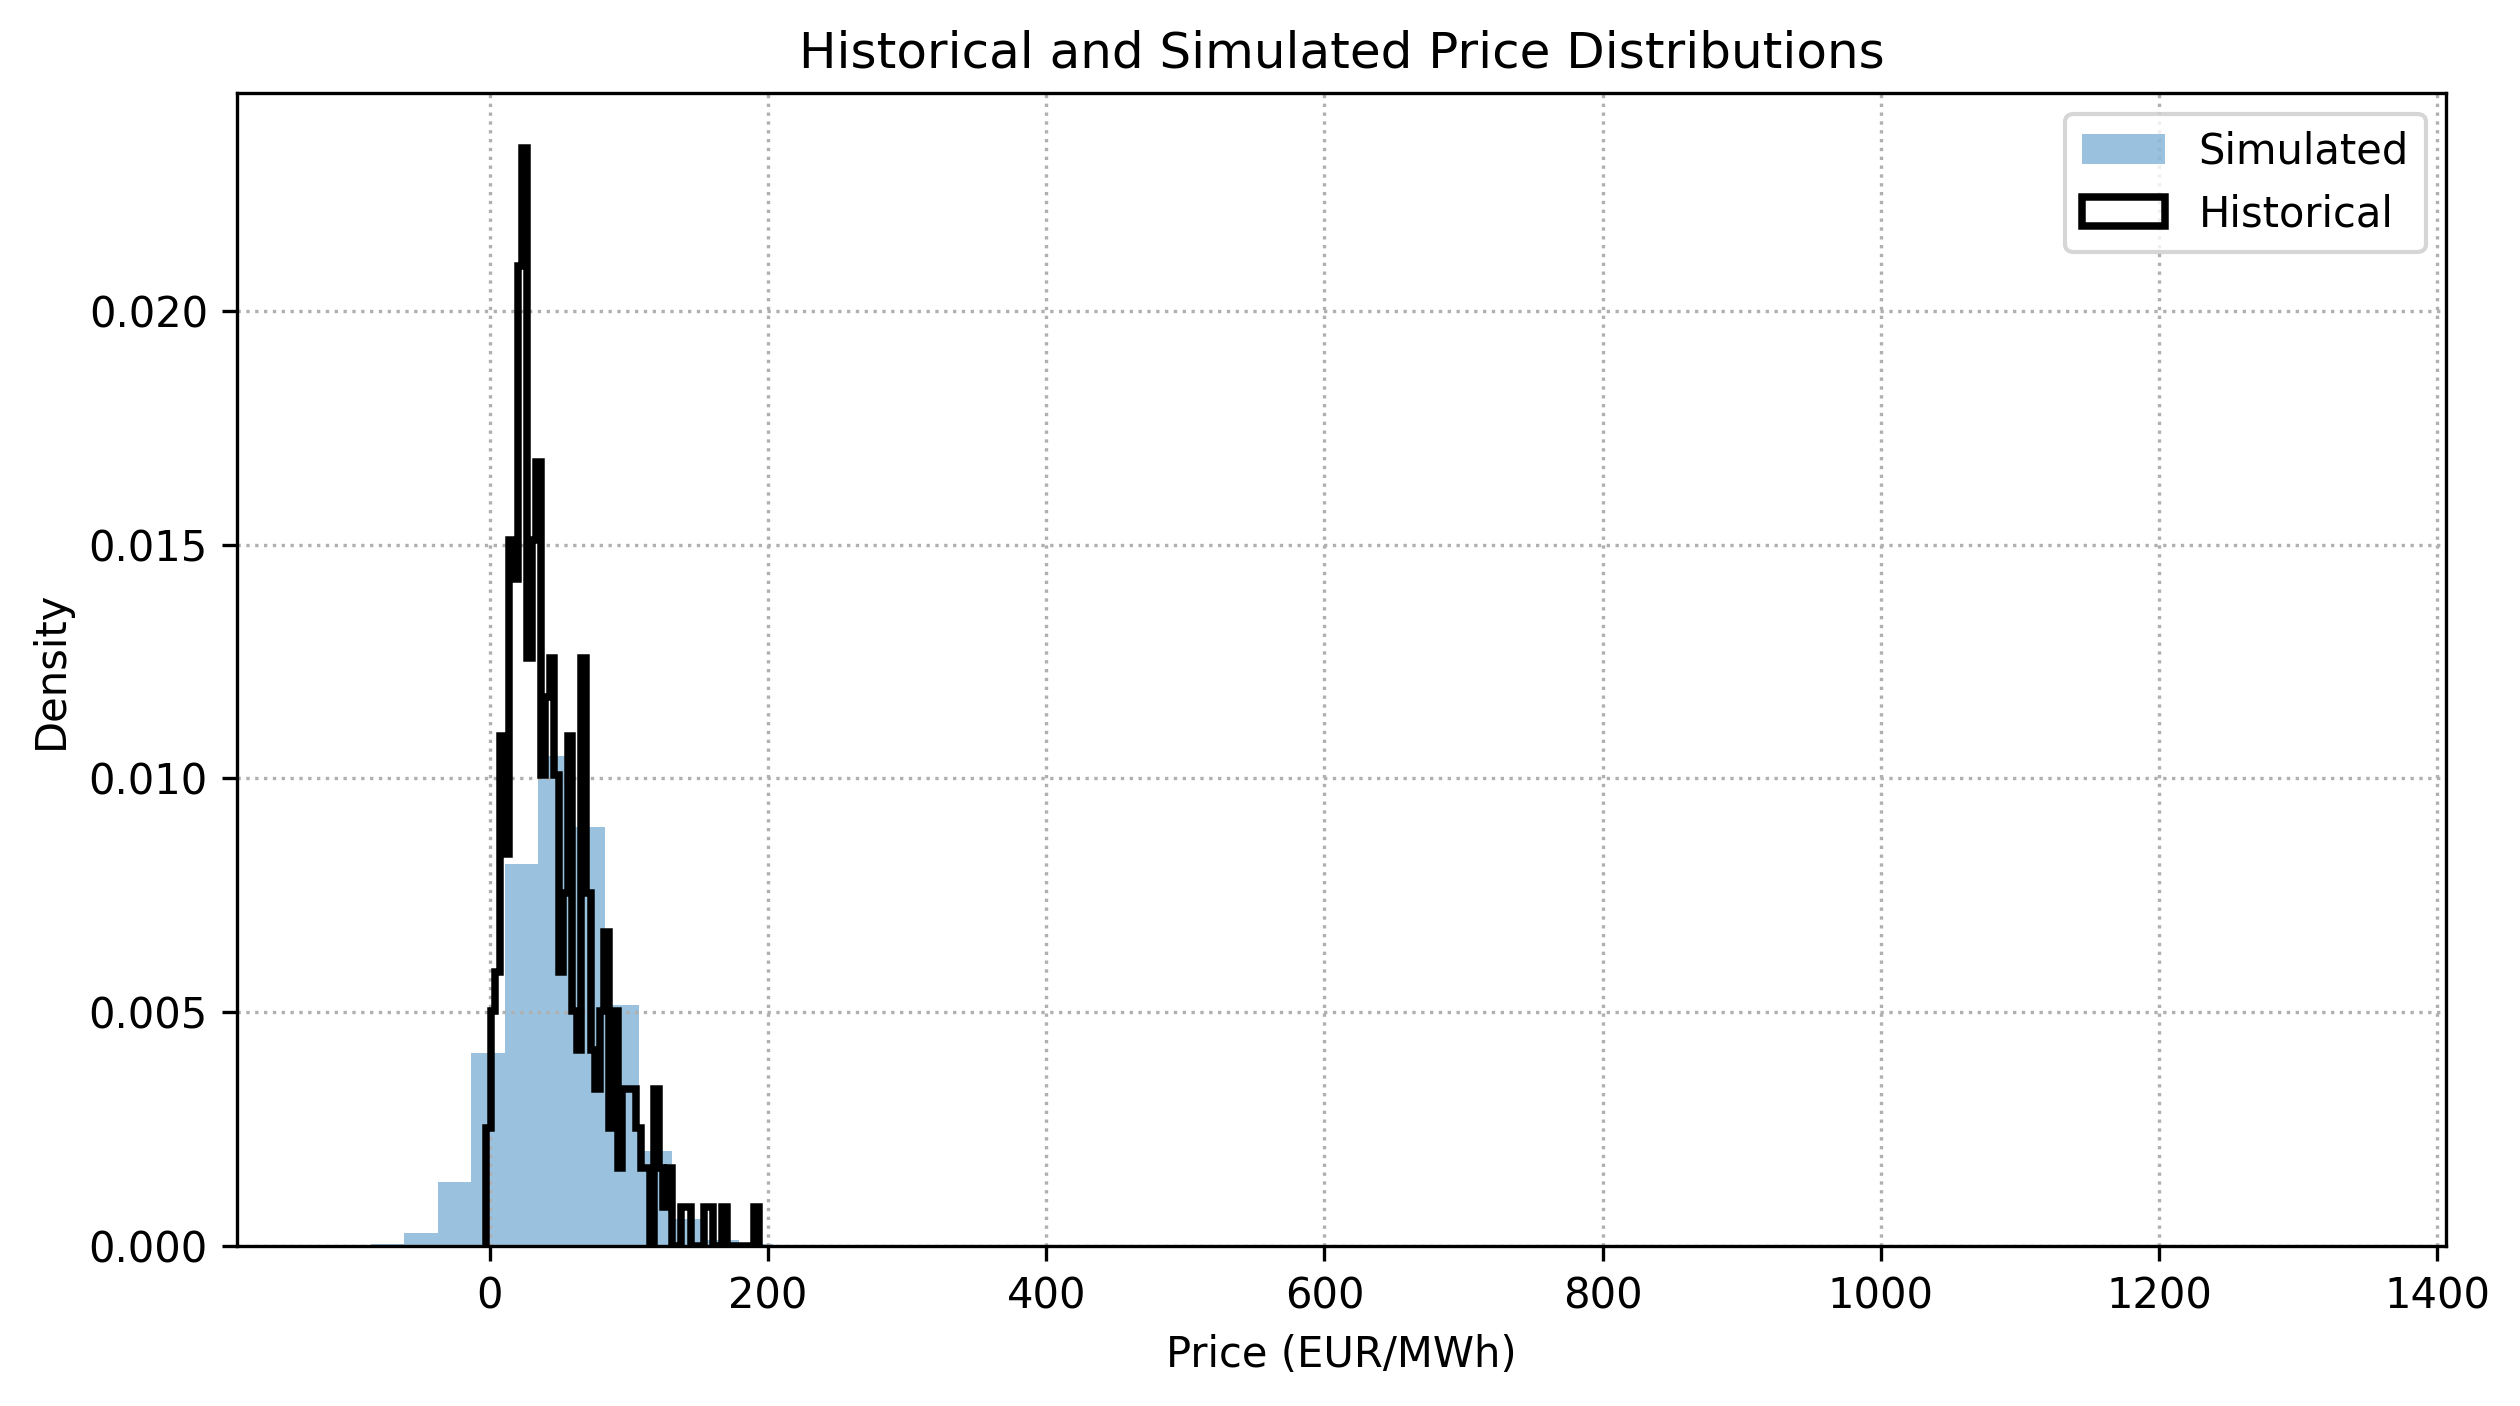
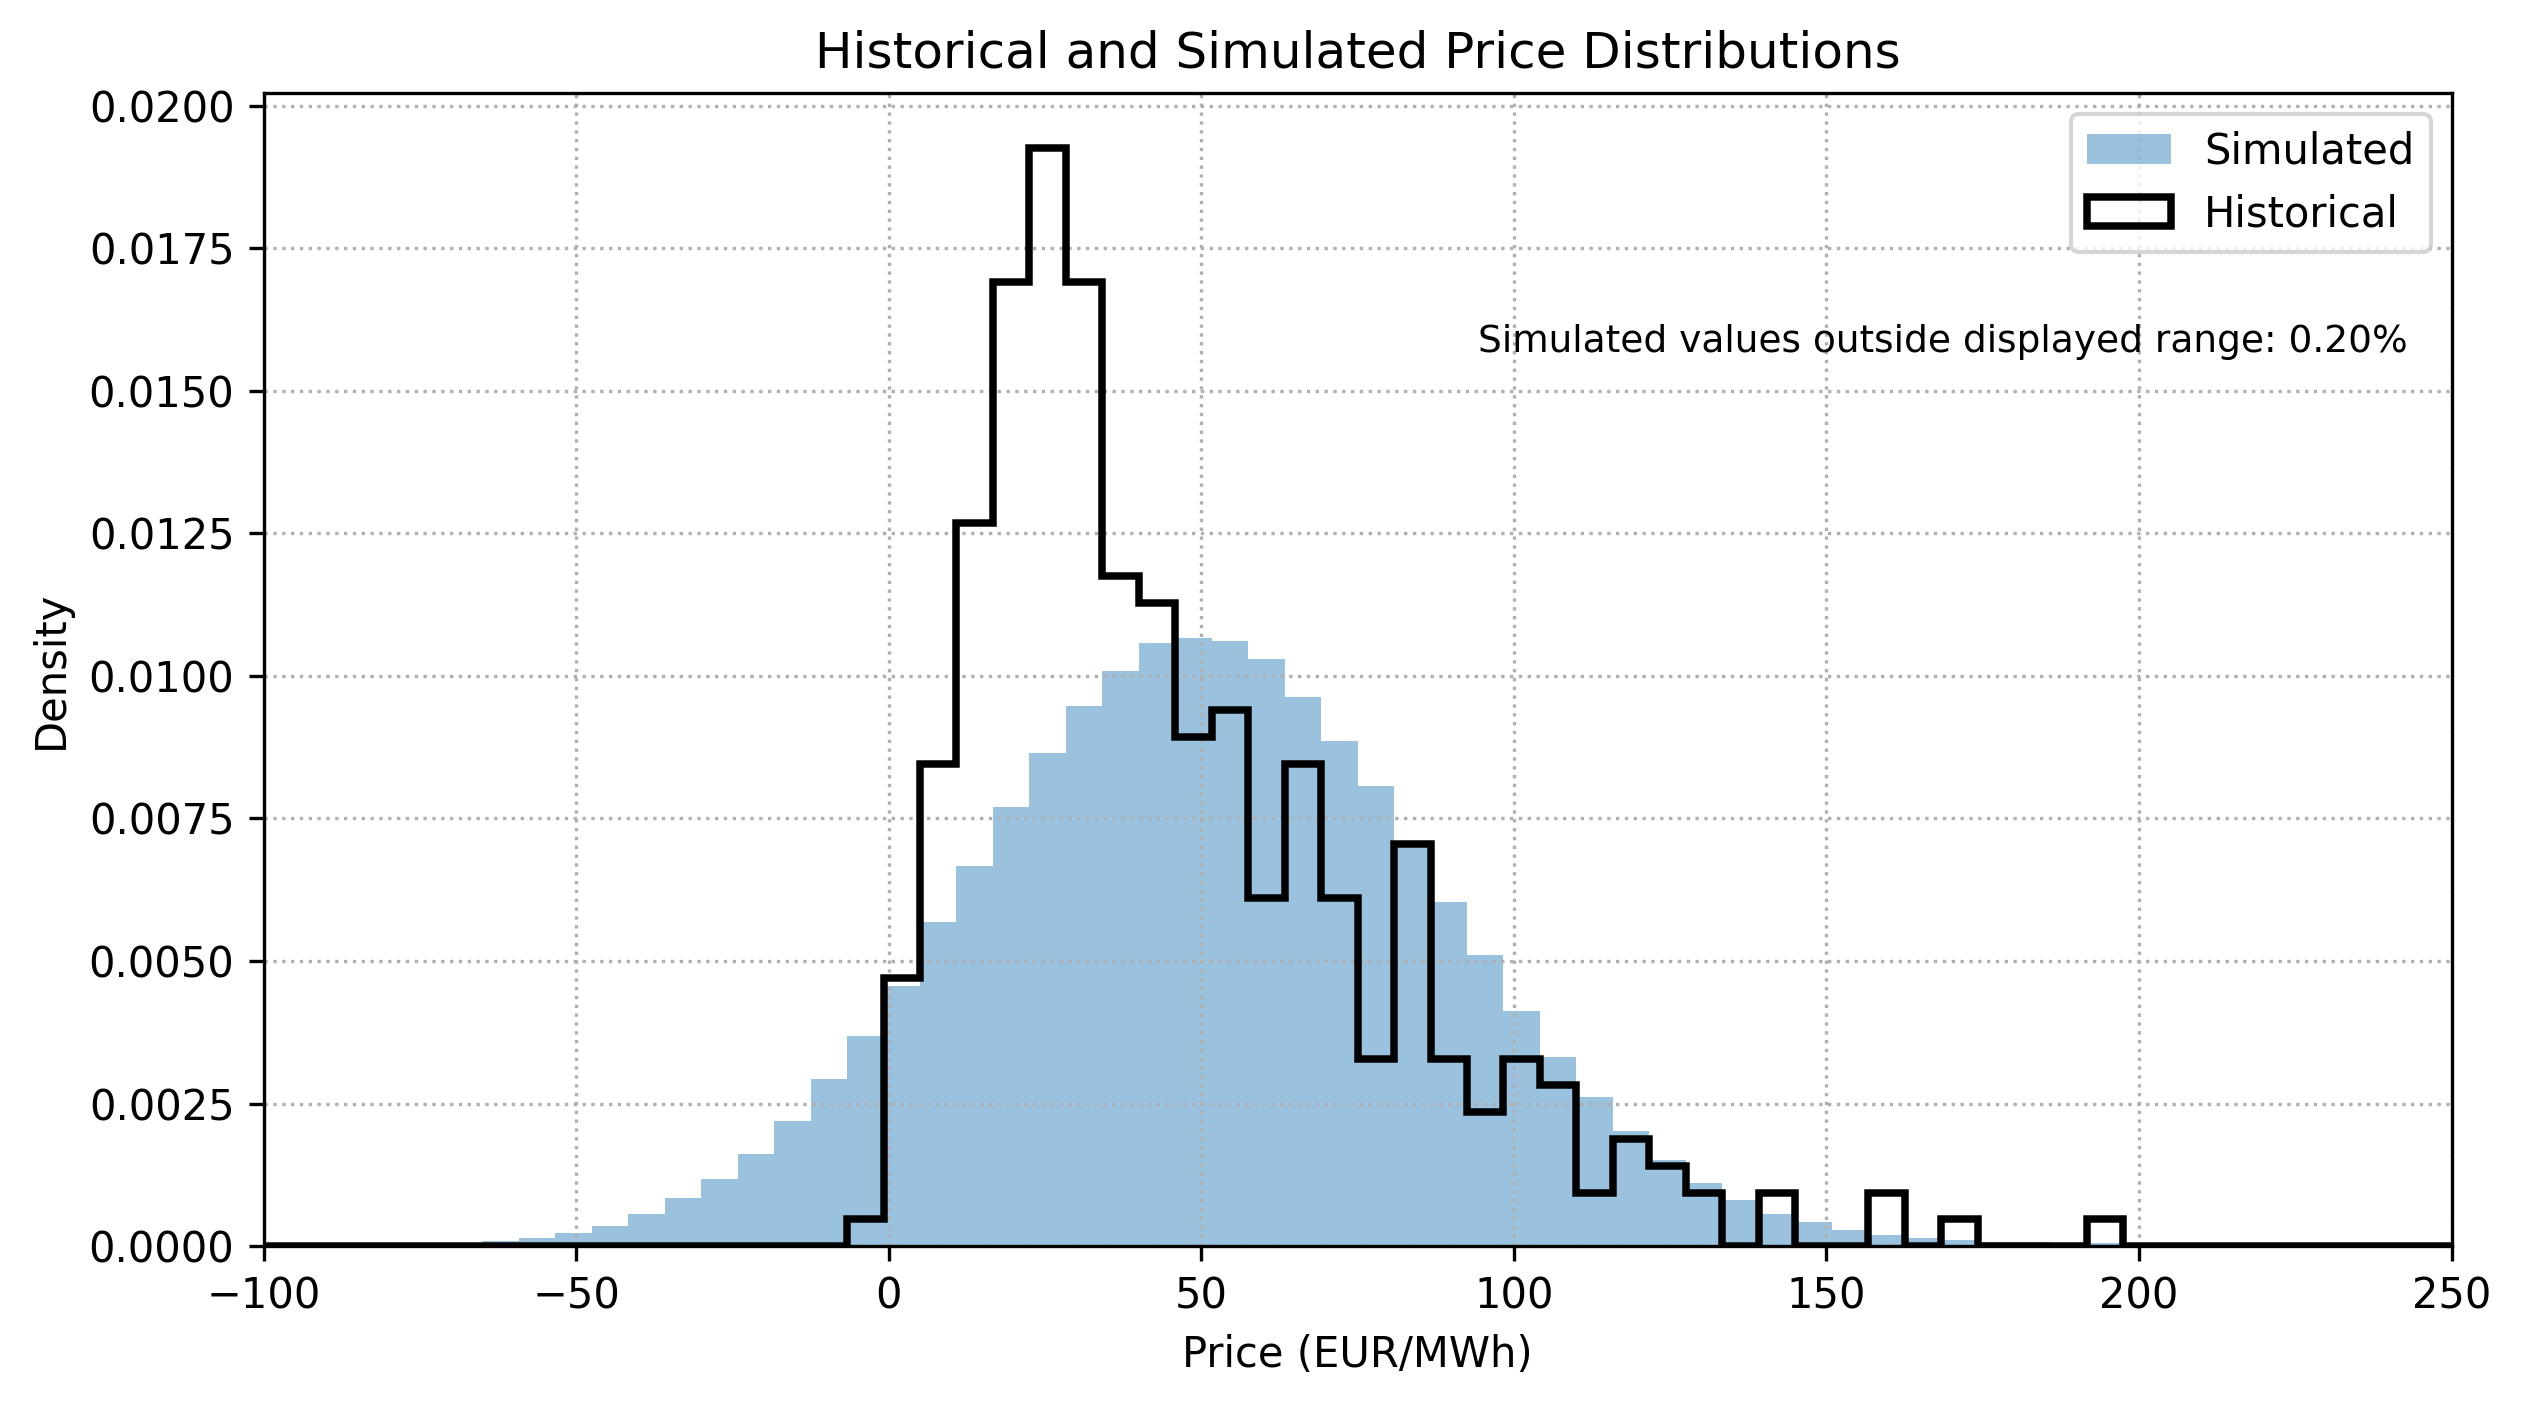
fixed histogram bins for distribution comparison plot

diff --git a/src/plotting.py b/src/plotting.py
@@ -319,10 +319,12 @@ def plot_historical_vs_simulated_distribution(
         historical_values,
         S_paths,
         bins=60,
+        plot_range=(-100, 250),
         save_path=None,
         show=True,
 ):
     """Compare historical and pooled simulated price distributions."""
+
     historical = np.asarray(historical_values, dtype=float)
     historical = historical[np.isfinite(historical)]
 
@@ -330,19 +332,27 @@ def plot_historical_vs_simulated_distribution(
     simulated = np.asarray(S_paths, dtype=float)[:, 1:].ravel()
     simulated = simulated[np.isfinite(simulated)]
 
+    lower, upper = plot_range
+    bin_edges = np.linspace(lower, upper, bins + 1)
+
+    simulated_outside = np.mean(
+        (simulated < lower) | (simulated > upper)
+    )
+
     fig, ax = plt.subplots(figsize=(8.5, 4.8))
 
     ax.hist(
         simulated,
-        bins=bins,
+        bins=bin_edges,
         density=True,
         alpha=0.45,
+        color="tab:blue",
         label="Simulated",
     )
 
     ax.hist(
         historical,
-        bins=bins,
+        bins=bin_edges,
         density=True,
         histtype="step",
         linewidth=1.8,
@@ -350,11 +360,26 @@ def plot_historical_vs_simulated_distribution(
         label="Historical",
     )
 
+    ax.set_xlim(lower, upper)
     ax.set_xlabel("Price (EUR/MWh)")
     ax.set_ylabel("Density")
     ax.set_title("Historical and Simulated Price Distributions")
     ax.grid(True, linestyle=":", linewidth=0.8)
     ax.legend()
+
+    ax.text(
+        0.98, 
+        0.8, 
+        (
+            f"Simulated values outside displayed range: "
+            f"{100 * simulated_outside:.2f}%"
+        ),
+        transform=ax.transAxes,
+        ha="right",
+        va="top",
+        fontsize=9,
+    )
+
     fig.tight_layout()
 
     if save_path is not None:
